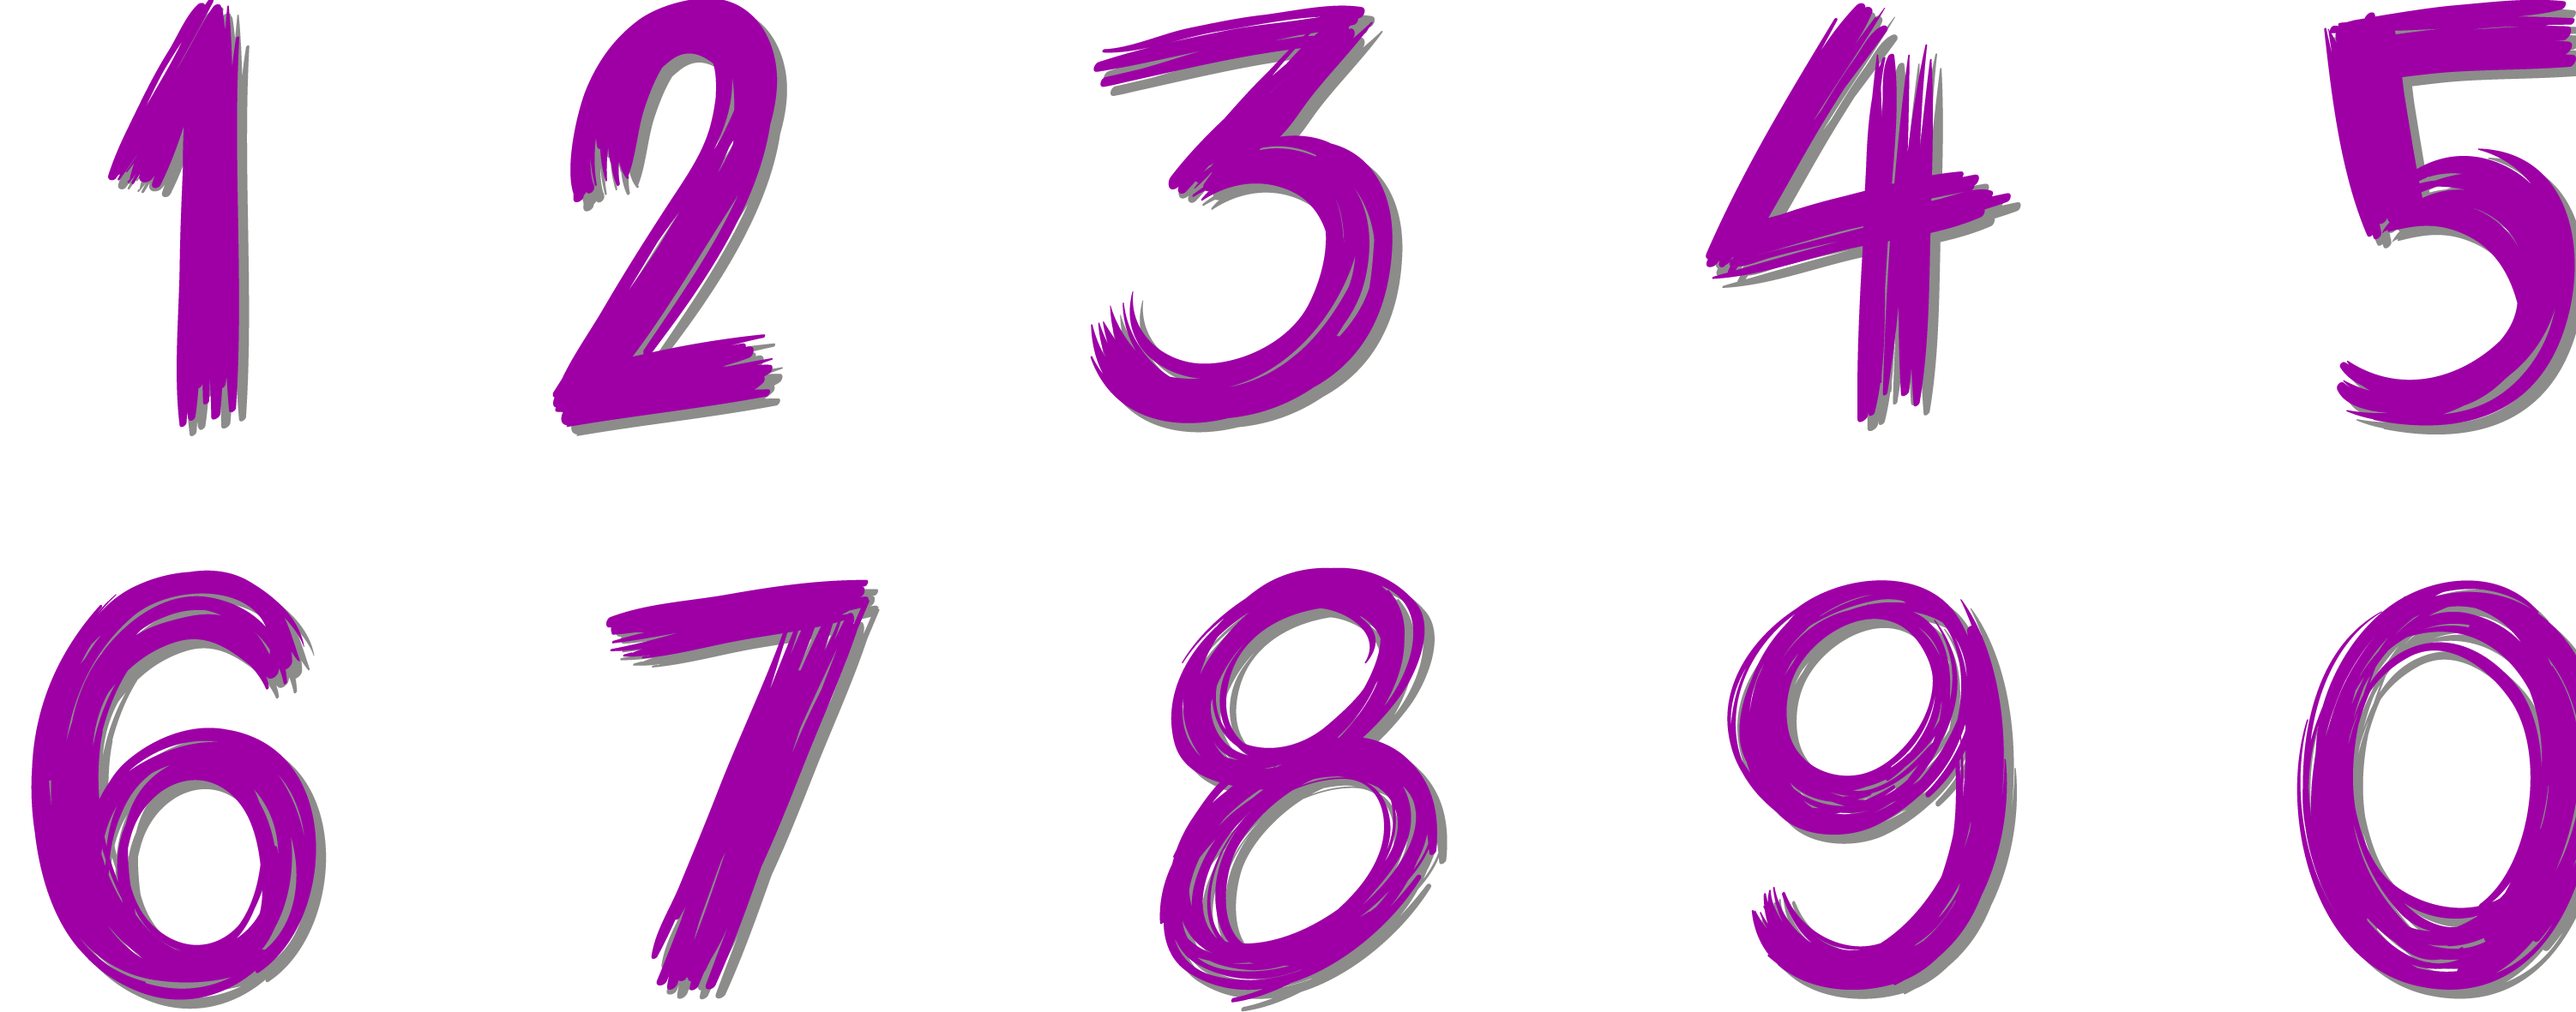
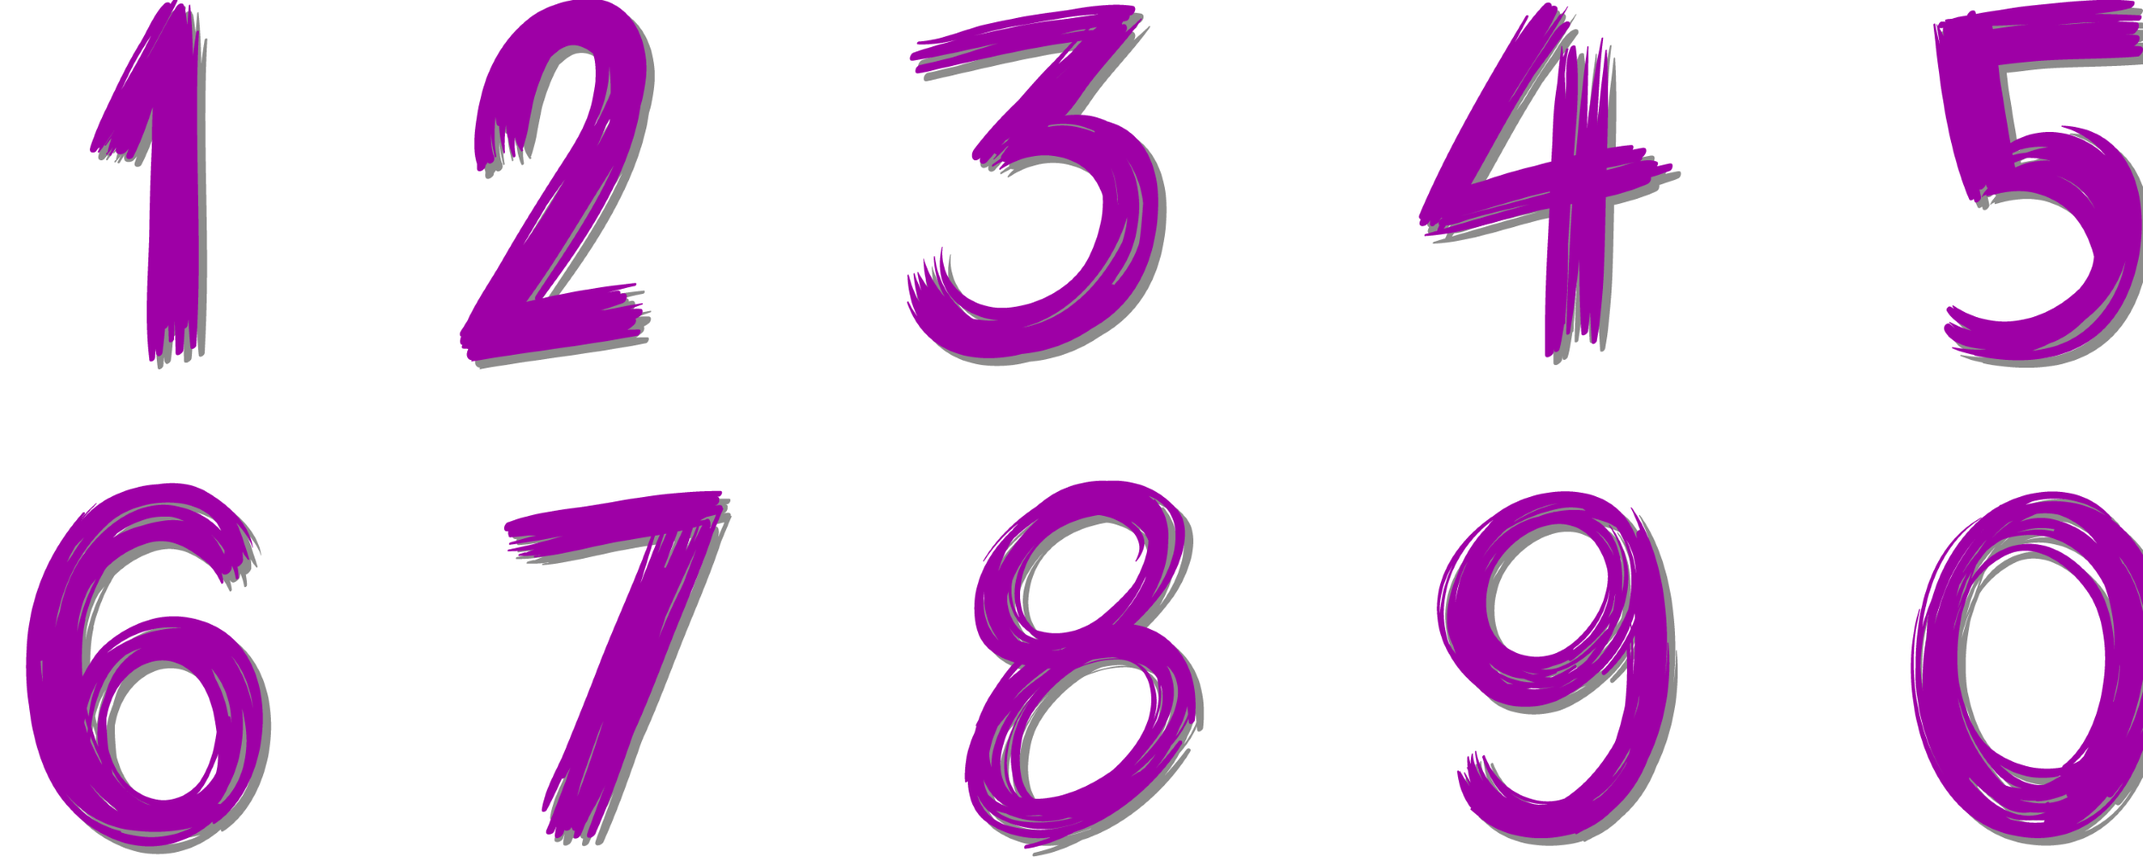
a

diff --git a/basecode_SDL2/main.c b/basecode_SDL2/main.c
@@ -14,16 +14,32 @@ int main(int argc, char** argv)
 	SDL_Window* window;
 	SDL_Renderer* renderer;
 
-	SDL_Texture* texture[3] = {NULL};
-	SDL_Surface* image[3] = {
+	SDL_Texture* texture[5] = {NULL};
+	SDL_Surface* image[5] = {
 		IMG_Load("images/board.png"),
 		IMG_Load("images/black.png"),
-		IMG_Load("images/white.png")
-
+		IMG_Load("images/white.png"),
+		IMG_Load("images/num.png"),
+		IMG_Load("images/num.png")
 	};
 
 	SDL_Rect pos;
 	SDL_Rect pos2;
+
+	SDL_Rect numrect;
+	SDL_Rect numpos;
+
+	numrect.w = 500;
+	numrect.h = 500;
+	numrect.x = 500;
+	numrect.y = 500;
+
+	numpos.w = 50;
+	numpos.h = 50;
+	numpos.x = 0;
+	numpos.y = 25;
+
+
 
 	pos2.w = 100;
 	pos2.h = 100;
@@ -62,7 +78,7 @@ int main(int argc, char** argv)
 
 	renderer = SDL_CreateRenderer(window, -1, SDL_RENDERER_ACCELERATED);
 
-	for (int i = 0; i < 3; i++) {
+	for (int i = 0; i < 5; ++i) {
 		texture[i] = SDL_CreateTextureFromSurface(renderer, image[i]);
 		SDL_FreeSurface(image[i]);
 	}
@@ -88,11 +104,9 @@ int main(int argc, char** argv)
 				pos.x /= 100;
 				pos.y /= 100;
 
-				if (!Board_getColor(board, pos.x, pos.y)) {
+				if (!Board_getColor(board, pos.x, pos.y))
 					if (Board_addPawn(board, pos.x, pos.y, lastcolor)) {
 						Board_checkGain(board, lastcolor);
-						Board_printGain(board);
-						Board_setGain(board, 0);
 						lastcolor = (lastcolor % 2) + 1;
 					}
 				
@@ -129,6 +143,8 @@ int main(int argc, char** argv)
 		SDL_RenderClear(renderer);
 
 		SDL_RenderCopy(renderer, texture[0], NULL, NULL);
+		SDL_RenderCopy(renderer, texture[3], &numrect, &numpos);
+		//SDL_RenderCopy(renderer, texture[4], &numrect, &numpos);
 		SDL_GetMouseState(&pos2.x, &pos2.y);
 		pos2.x = pos2.x / 100 * 100;
 		pos2.y = pos2.y / 100 * 100;
